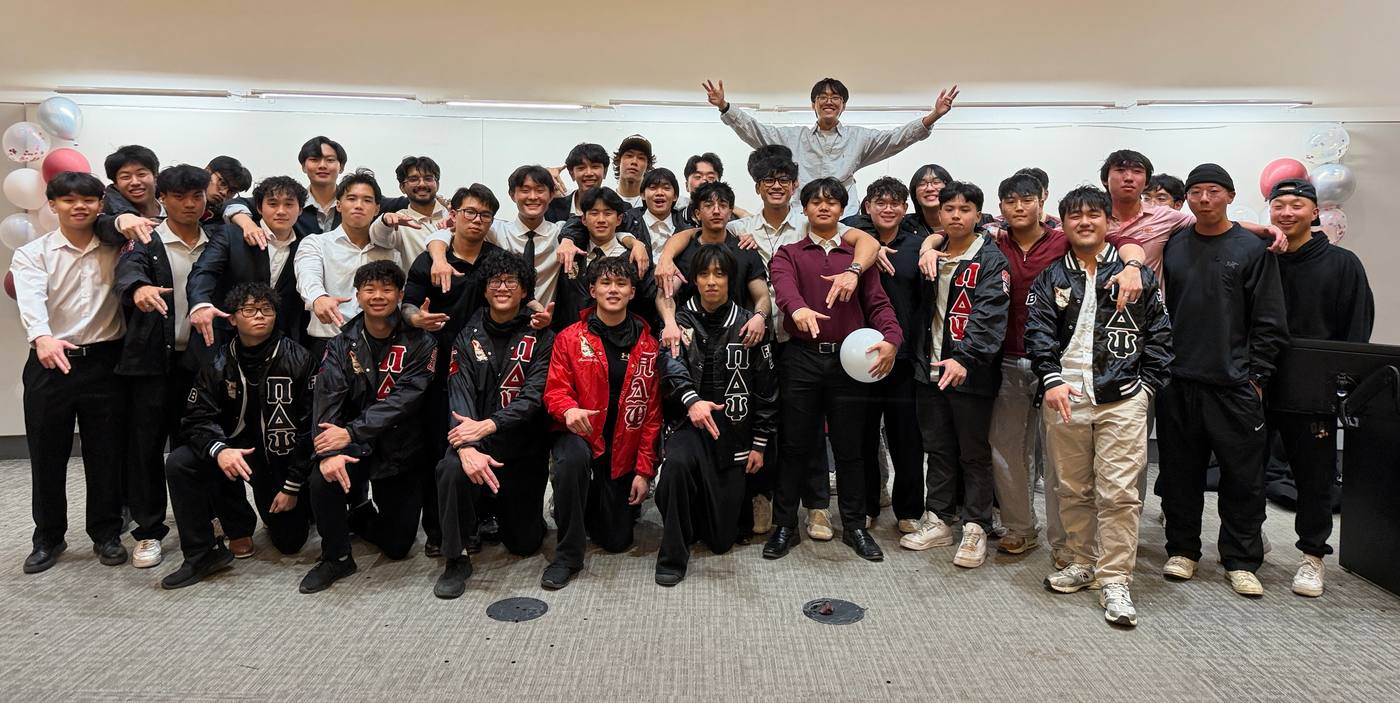
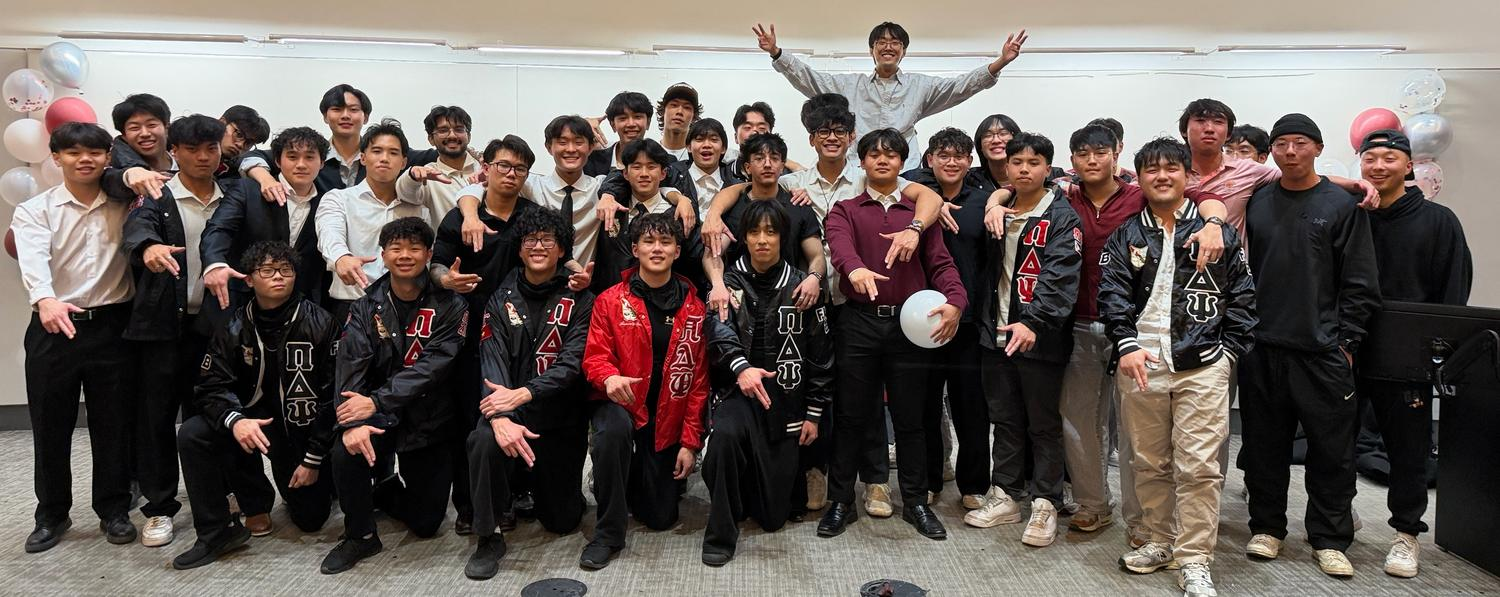
Version hero image URLs to bust image cache

diff --git a/index.html b/index.html
@@ -12,7 +12,7 @@
 <link rel="preconnect" href="https://fonts.googleapis.com">
 <link rel="preconnect" href="https://fonts.gstatic.com" crossorigin>
 <link href="https://fonts.googleapis.com/css2?family=Inter:wght@400;500;600;700&family=Playfair+Display:ital,wght@0,400;0,700;0,900;1,400&display=swap" rel="stylesheet">
-<link rel="stylesheet" href="assets/css/styles.css?v=8">
+<link rel="stylesheet" href="assets/css/styles.css?v=9">
 </head>
 <body>
 
@@ -137,7 +137,7 @@
   <div style="padding:20px;text-align:center;color:#9aa4bd">This site uses JavaScript for navigation and the roster. Please enable it for the full experience.</div>
 </noscript>
 
-<script src="assets/js/data.js?v=8"></script>
-<script src="assets/js/main.js?v=8"></script>
+<script src="assets/js/data.js?v=9"></script>
+<script src="assets/js/main.js?v=9"></script>
 </body>
 </html>

diff --git a/rush.html b/rush.html
@@ -9,7 +9,7 @@
 <link rel="preconnect" href="https://fonts.googleapis.com">
 <link rel="preconnect" href="https://fonts.gstatic.com" crossorigin>
 <link href="https://fonts.googleapis.com/css2?family=Inter:wght@400;500;600;700&family=Playfair+Display:ital,wght@0,400;0,700;0,900;1,400&display=swap" rel="stylesheet">
-<link rel="stylesheet" href="assets/css/styles.css?v=8">
+<link rel="stylesheet" href="assets/css/styles.css?v=9">
 </head>
 <body>
 
@@ -107,7 +107,7 @@
 <footer id="site-footer"></footer>
 <button class="totop" id="to-top" aria-label="Back to top">&uarr;</button>
 
-<script src="assets/js/data.js?v=8"></script>
-<script src="assets/js/main.js?v=8"></script>
+<script src="assets/js/data.js?v=9"></script>
+<script src="assets/js/main.js?v=9"></script>
 </body>
 </html>

diff --git a/about.html b/about.html
@@ -9,7 +9,7 @@
 <link rel="preconnect" href="https://fonts.googleapis.com">
 <link rel="preconnect" href="https://fonts.gstatic.com" crossorigin>
 <link href="https://fonts.googleapis.com/css2?family=Inter:wght@400;500;600;700&family=Playfair+Display:ital,wght@0,400;0,700;0,900;1,400&display=swap" rel="stylesheet">
-<link rel="stylesheet" href="assets/css/styles.css?v=8">
+<link rel="stylesheet" href="assets/css/styles.css?v=9">
 </head>
 <body>
 
@@ -82,7 +82,7 @@
 <footer id="site-footer"></footer>
 <button class="totop" id="to-top" aria-label="Back to top">&uarr;</button>
 
-<script src="assets/js/data.js?v=8"></script>
-<script src="assets/js/main.js?v=8"></script>
+<script src="assets/js/data.js?v=9"></script>
+<script src="assets/js/main.js?v=9"></script>
 </body>
 </html>

diff --git a/board.html b/board.html
@@ -9,7 +9,7 @@
 <link rel="preconnect" href="https://fonts.googleapis.com">
 <link rel="preconnect" href="https://fonts.gstatic.com" crossorigin>
 <link href="https://fonts.googleapis.com/css2?family=Inter:wght@400;500;600;700&family=Playfair+Display:ital,wght@0,400;0,700;0,900;1,400&display=swap" rel="stylesheet">
-<link rel="stylesheet" href="assets/css/styles.css?v=8">
+<link rel="stylesheet" href="assets/css/styles.css?v=9">
 </head>
 <body>
 
@@ -60,7 +60,7 @@
 <footer id="site-footer"></footer>
 <button class="totop" id="to-top" aria-label="Back to top">&uarr;</button>
 
-<script src="assets/js/data.js?v=8"></script>
-<script src="assets/js/main.js?v=8"></script>
+<script src="assets/js/data.js?v=9"></script>
+<script src="assets/js/main.js?v=9"></script>
 </body>
 </html>

diff --git a/chapters.html b/chapters.html
@@ -9,7 +9,7 @@
 <link rel="preconnect" href="https://fonts.googleapis.com">
 <link rel="preconnect" href="https://fonts.gstatic.com" crossorigin>
 <link href="https://fonts.googleapis.com/css2?family=Inter:wght@400;500;600;700&family=Playfair+Display:ital,wght@0,400;0,700;0,900;1,400&display=swap" rel="stylesheet">
-<link rel="stylesheet" href="assets/css/styles.css?v=8">
+<link rel="stylesheet" href="assets/css/styles.css?v=9">
 </head>
 <body>
 
@@ -59,7 +59,7 @@
 <footer id="site-footer"></footer>
 <button class="totop" id="to-top" aria-label="Back to top">&uarr;</button>
 
-<script src="assets/js/data.js?v=8"></script>
-<script src="assets/js/main.js?v=8"></script>
+<script src="assets/js/data.js?v=9"></script>
+<script src="assets/js/main.js?v=9"></script>
 </body>
 </html>

diff --git a/history.html b/history.html
@@ -9,7 +9,7 @@
 <link rel="preconnect" href="https://fonts.googleapis.com">
 <link rel="preconnect" href="https://fonts.gstatic.com" crossorigin>
 <link href="https://fonts.googleapis.com/css2?family=Inter:wght@400;500;600;700&family=Playfair+Display:ital,wght@0,400;0,700;0,900;1,400&display=swap" rel="stylesheet">
-<link rel="stylesheet" href="assets/css/styles.css?v=8">
+<link rel="stylesheet" href="assets/css/styles.css?v=9">
 </head>
 <body>
 
@@ -82,7 +82,7 @@
 <footer id="site-footer"></footer>
 <button class="totop" id="to-top" aria-label="Back to top">&uarr;</button>
 
-<script src="assets/js/data.js?v=8"></script>
-<script src="assets/js/main.js?v=8"></script>
+<script src="assets/js/data.js?v=9"></script>
+<script src="assets/js/main.js?v=9"></script>
 </body>
 </html>

diff --git a/roster.html b/roster.html
@@ -9,7 +9,7 @@
 <link rel="preconnect" href="https://fonts.googleapis.com">
 <link rel="preconnect" href="https://fonts.gstatic.com" crossorigin>
 <link href="https://fonts.googleapis.com/css2?family=Inter:wght@400;500;600;700&family=Playfair+Display:ital,wght@0,400;0,700;0,900;1,400&display=swap" rel="stylesheet">
-<link rel="stylesheet" href="assets/css/styles.css?v=8">
+<link rel="stylesheet" href="assets/css/styles.css?v=9">
 </head>
 <body>
 
@@ -47,7 +47,7 @@
 <footer id="site-footer"></footer>
 <button class="totop" id="to-top" aria-label="Back to top">&uarr;</button>
 
-<script src="assets/js/data.js?v=8"></script>
-<script src="assets/js/main.js?v=8"></script>
+<script src="assets/js/data.js?v=9"></script>
+<script src="assets/js/main.js?v=9"></script>
 </body>
 </html>
